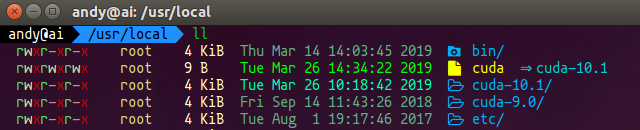
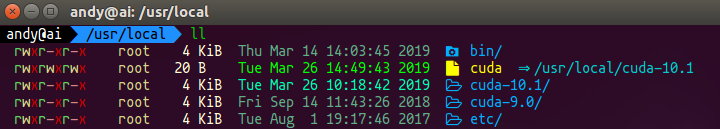
fix README

diff --git a/src/ai_base_env.md b/src/ai_base_env.md
@@ -239,7 +239,11 @@ sudo make
 cat /usr/local/cuda/version.txt
 ```
 <!-- ![cuda](../img/cuda.png)     -->
-![cuda](../img/cuda-version.png)     
+- CUDA 9.0    
+    ![CUDA 9.0](../img/cuda9.0-version.png)     
+    
+- CUDA 10.1    
+    ![CUDA 10.1](../img/cuda-version.png)     
 
 ### 卸载CUDA的方法   
 ```shell
@@ -358,24 +362,24 @@ so try looking to see if a warning log message was printed above.
 > [cuDNN官方安装指导](https://docs.nvidia.com/deeplearning/sdk/cudnn-install/index.html#installlinux)     
 ---
 ## CUDA多版本问题
-在实验的时候有些算法跟当前生效(安装)的`CUDA`和`cuDNN`版本不一致，所以需要同时安装多个版本，这里就是解决同时管理多个`CUDA`版本问题.   
+在实验的时候有些算法跟当前生效(安装)的`CUDA`和`cuDNN`版本不一致，所以需要同时安装多个版本，这里就是解决同时管理多个`CUDA`版本问题。   
 
-1. 首先按照上述介绍的[安装CUDA](#安装cuda)和对应版本的[安装cuDNN](#安装cudnn)，安装实验环境依赖的版本；
+1. 首先按照上述介绍的[安装CUDA](#安装cuda)和对应版本的[安装cuDNN](#安装cudnn)，安装实验环境依赖的版本；    
 2. 默认`/usr/local/cuda`是**软连接**到**最新安装的`CUDA`文件夹**上的:    
-    ![cuda2](../img/cuda2.png)    
-3. 删除已经软连接的`/usr/local/cuda`，将需要的`CUDA-X.0安装文件夹`软连接到`/usr/local/cuda`上, 例如需要`CUDA 8.0`这个版本:      
+    ![cuda2](../img/../img/cuda10.1-success.png)     
+3. 删除已经软连接的`/usr/local/cuda`，将需要的`CUDA-X.0安装文件夹`软连接到`/usr/local/cuda`上, 例如需要`CUDA 9.0`这个版本:      
     ```shell
     cd /usr/local/
     sudo rm cuda
-    sudo ln -s /usr/local/cuda-8.0 /usr/local/cuda
+    sudo ln -s /usr/local/cuda-9.0 /usr/local/cuda
     ```    
-    ![cuda3](../img/cuda3.png)       
+    ![cuda3](../img/cuda9-cuda10.1.png)     
 4. 由于在安装`CUDA`的时候已经将`cuda`加入了环境变量，所以不用再加入了。   
 5. 查看`CUDA`版本   
     ```shell
     cat /usr/local/cuda/version.txt
     ```
-    ![cuda](../img/cuda-version.png)     
+    ![cuda](../img/cuda9.0-version.png)     
 ---
 ## Anaconda
 ### 安装Anaconda
